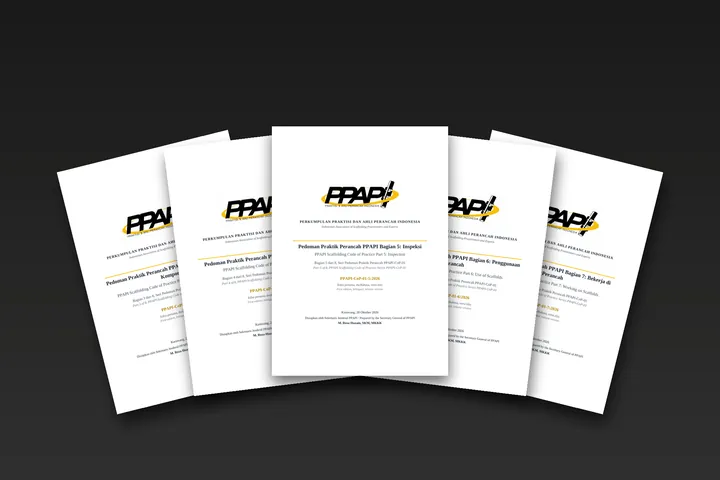
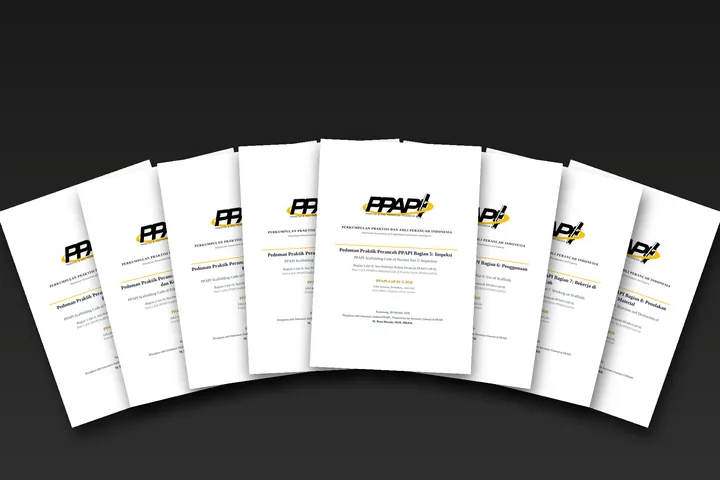
Artikel CoP mencakup seri lengkap Bagian 1 sampai 8
Artikel promosi Pedoman Praktik Perancah PPAPI-CoP-01:2026 kini membahas
kedelapan bagian (183 halaman) dengan rujukan per bagian, dan gambar
sampulnya memuat kedelapan sampul.

Claude-Session: https://claude.ai/code/session_01RHE9XNYjmYozyxCiG3JqDp

Changed region(s): [[0.0, 0.25, 1.0, 0.9062]]

diff --git a/site/assets/data/berita.js b/site/assets/data/berita.js
@@ -49,42 +49,48 @@ window.PPAPI_DATA = window.PPAPI_DATA || {};
 PPAPI_DATA.berita = [
   {
     id: 'pedoman-praktik-perancah-ppapi-cop-01-2026',
-    judul: 'Pedoman Praktik Perancah PPAPI-CoP-01:2026: Acuan Kerja dari Gudang Material sampai Bekerja di Ketinggian',
+    judul: 'Pedoman Praktik Perancah PPAPI-CoP-01:2026: Delapan Bagian Acuan Kerja Perancah dari Perencanaan sampai Pemusnahan Material',
     kategori: 'Organisasi',
     tanggal: '2026-11-02',
-    ringkasan: 'PPAPI menerbitkan Pedoman Praktik Perancah Bagian 3 sampai 7: material, instalasi, inspeksi, penggunaan, dan bekerja di atas perancah. Dwibahasa, 110 halaman, tersedia di Toko PPAPI.',
+    ringkasan: 'PPAPI menerbitkan seri lengkap Pedoman Praktik Perancah, Bagian 1 sampai 8: dari prinsip, K3, material, instalasi, dan inspeksi sampai pemusnahan material. Dwibahasa, 183 halaman.',
     isi: [
       '## Latar Belakang',
       'Perancah adalah struktur sementara, tetapi taruhannya tidak pernah sementara. Di atas perancah, pekerja memasang dinding, mengecat fasad, merawat pipa pabrik, dan membongkar bekisting. Jika satu komponen gagal atau satu pengikat dilepas tanpa izin, akibatnya bisa berupa pekerja jatuh atau struktur runtuh. Karena itu, Undang-Undang Nomor 1 Tahun 1970 tentang Keselamatan Kerja mewajibkan syarat keselamatan dipenuhi di setiap tempat kerja, termasuk proyek yang memakai perancah (Republik Indonesia, 1970).',
-      'Peraturan pelaksanaannya juga jelas. Permenaker Nomor 9 Tahun 2016 menetapkan lima persyaratan K3 bekerja pada ketinggian, yaitu perencanaan, prosedur kerja, teknik bekerja aman, alat pelindung diri beserta angkur, dan tenaga kerja. Pasal 15 mewajibkan pengusaha atau pengurus memastikan pekerjaan yang memakai perancah memenuhi persyaratan K3 (Kementerian Ketenagakerjaan, 2016). Standar kompetensinya pun sudah tersedia melalui SKKNI Bidang Operasi Scaffolding (Kementerian Ketenagakerjaan, 2022). Yang sering belum tersedia adalah pedoman teknis berbahasa Indonesia yang menjembatani aturan tersebut dengan pekerjaan sehari-hari di lapangan.',
-      'Untuk mengisi kekosongan itu, PPAPI menyusun Pedoman Praktik Perancah PPAPI (*PPAPI Scaffolding Code of Practice*) seri PPAPI-CoP-01. Seri ini terdiri atas delapan bagian, disusun dalam dua bahasa secara berdampingan, dan versi rilisnya disahkan Ketua Umum PPAPI pada 28 Oktober 2026 (Perkumpulan Praktisi dan Ahli Perancah Indonesia, 2026a). Lima bagian, yaitu Bagian 3 sampai Bagian 7, kini dapat diperoleh melalui Toko PPAPI.',
+      'Permenaker Nomor 9 Tahun 2016 menetapkan lima persyaratan K3 bekerja pada ketinggian, yaitu perencanaan, prosedur kerja, teknik bekerja aman, alat pelindung diri beserta angkur, dan tenaga kerja. Pasal 15 mewajibkan pengusaha atau pengurus memastikan pekerjaan yang memakai perancah memenuhi persyaratan K3 (Kementerian Ketenagakerjaan, 2016). Standar kompetensinya tersedia melalui SKKNI Bidang Operasi Scaffolding (Kementerian Ketenagakerjaan, 2022). Namun, peraturan menetapkan kewajiban umum agar perancah kuat, stabil, dan diperiksa sebelum digunakan, tanpa merinci dimensi konfigurasi, pengikatan, kriteria penolakan material, dan teknik pemeriksaan (Perkumpulan Praktisi dan Ahli Perancah Indonesia, 2026a).',
+      'Untuk mengisi kekosongan itu, PPAPI menyusun Pedoman Praktik Perancah PPAPI (*PPAPI Scaffolding Code of Practice*) seri PPAPI-CoP-01. Berdasarkan keputusan Pengurus PPAPI, pedoman ini diterbitkan sebagai seri delapan bagian agar setiap bagian dapat digunakan langsung oleh pihak yang memerlukannya (Perkumpulan Praktisi dan Ahli Perancah Indonesia, 2026a). Seluruh bagian disusun dalam dua bahasa secara berdampingan, versi rilisnya disahkan Ketua Umum PPAPI pada 28 Oktober 2026, dan kini dapat diperoleh melalui Toko PPAPI.',
       '## Masalah yang Sering Terjadi',
-      'Masalah pertama berawal dari gudang. Komponen perancah yang beredar di Indonesia berasal dari berbagai keluarga standar dan pabrikan dengan mutu yang beragam, dan sebagian di antaranya masuk ke lokasi kerja tanpa pemeriksaan. Padahal, kekuatan perancah ditentukan oleh komponen terlemahnya (Perkumpulan Praktisi dan Ahli Perancah Indonesia, 2026a). Pipa yang dindingnya menipis, klem yang ulirnya aus, atau papan yang retak tidak selalu terlihat sampai ada yang gagal.',
-      'Masalah kedua muncul saat pemasangan. Kondisi lapangan tidak selalu sama dengan gambar. Tanah lebih lunak dari perkiraan, titik pengikat terhalang, atau bentang harus diubah. Keputusan yang aman dalam keadaan seperti itu hanya dapat diambil oleh personel yang memahami prinsip yang terpengaruh oleh penyimpangan tersebut (Perkumpulan Praktisi dan Ahli Perancah Indonesia, 2026b).',
-      'Masalah ketiga terjadi setelah perancah diserahkan. Kelayakan perancah dapat hilang karena tindakan penggunanya, misalnya memindahkan papan, melepas pengikat, menumpuk material pada satu bay, atau memasang penutup pada pagar. Sebagian besar pengguna perancah bukan scaffolder dan tidak mengetahui fungsi setiap komponen (Perkumpulan Praktisi dan Ahli Perancah Indonesia, 2026d). Ditambah lagi, perlindungan kolektif belum lengkap pada saat pemasangan dan pembongkaran, saat pekerja menjangkau ke luar pagar, dan saat berpindah antara perancah dan struktur (Perkumpulan Praktisi dan Ahli Perancah Indonesia, 2026e). Pada saat-saat itulah risiko jatuh paling tinggi.',
+      'Selama ini, rincian teknis yang tidak diatur peraturan diisi oleh standar asing yang ditafsirkan berbeda oleh setiap perusahaan. Akibatnya, penilaian kelayakan perancah tidak seragam antar lokasi kerja (Perkumpulan Praktisi dan Ahli Perancah Indonesia, 2026a). Perancah yang dinyatakan layak di satu proyek dapat dinilai tidak layak di proyek lain.',
+      'Masalah berikutnya berawal dari gudang. Komponen yang beredar di Indonesia berasal dari berbagai keluarga standar dan pabrikan dengan mutu beragam, dan sebagian masuk ke lokasi kerja tanpa pemeriksaan, padahal kekuatan perancah ditentukan oleh komponen terlemahnya (Perkumpulan Praktisi dan Ahli Perancah Indonesia, 2026c). Komponen yang sudah ditolak pun dapat kembali dipakai di lokasi lain bila tidak dimusnahkan, misalnya pipa bengkok yang diluruskan atau klem rusak yang diperdagangkan kembali (Perkumpulan Praktisi dan Ahli Perancah Indonesia, 2026h).',
+      'Di lapangan, sebagian besar kecelakaan perancah berakar pada hal yang seharusnya selesai sebelum pekerjaan dimulai, yaitu kompetensi dan kelaikan personel, penilaian bahaya dalam izin kerja, kesesuaian alat pelindung diri, dan komunikasi antarregu (Perkumpulan Praktisi dan Ahli Perancah Indonesia, 2026b). Setelah perancah diserahkan, kelayakannya juga dapat hilang karena pengguna memindahkan papan, melepas pengikat, atau menumpuk material pada satu bay (Perkumpulan Praktisi dan Ahli Perancah Indonesia, 2026f). Sementara itu, perlindungan kolektif belum lengkap selama pemasangan dan pembongkaran, saat risiko jatuh paling tinggi (Perkumpulan Praktisi dan Ahli Perancah Indonesia, 2026g).',
       '## Penjelasan dan Penyelesaian Berdasarkan Referensi',
-      'Kelima bagian CoP disusun mengikuti siklus hidup perancah, dari material sampai pemakaian. Setiap bagian memuat ruang lingkup, acuan normatif, ketentuan, lampiran praktis, dan daftar acuan.',
-      '- Bagian 3, Material dan Komponen (20 halaman), berlaku untuk komponen milik sendiri maupun sewaan, baru maupun bekas pakai. Bagian ini mengatur standar material yang dapat diterima di Indonesia, prinsip pengadaan, isi minimum sertifikat kesesuaian, pemeriksaan material di lapangan, penyimpanan, perawatan, serta kriteria penolakan komponen (Perkumpulan Praktisi dan Ahli Perancah Indonesia, 2026a). Salah satu acuannya adalah SNI 8987:2021 tentang pipa baja untuk perancah (Badan Standardisasi Nasional, 2021).',
-      '- Bagian 4, Instalasi (27 halaman), menurunkan seluruh persyaratan teknis dari tiga prinsip struktural, yaitu kekuatan, kestabilan, dan kekakuan, agar dasar setiap persyaratan jarak, pengaku, dan pengikat dapat dipahami. Bagian ini mencakup perencanaan, pemasangan perancah pipa dan klem, frame, modular, dan jenis khusus, modifikasi, pembongkaran, serta tabel konfigurasi standar (Perkumpulan Praktisi dan Ahli Perancah Indonesia, 2026b).',
-      '- Bagian 5, Inspeksi (25 halaman), mengatur pemeriksaan sebelum pendirian, selama pemasangan, pertama kali sebelum digunakan, berkala, setelah kejadian khusus, dan sebelum pembongkaran. Sertifikat serah terima wajib memuat identitas perancah, kelas beban, batasan penggunaan, hasil uji tarik angkur bila dipakai, serta tanggal dan hasil pemeriksaan pertama. Lampirannya memuat daftar periksa inspeksi dan isi minimum tag (Perkumpulan Praktisi dan Ahli Perancah Indonesia, 2026c).',
-      '- Bagian 6, Penggunaan Perancah (16 halaman), berlaku bagi setiap orang yang memakai perancah untuk bekerja, lewat, atau meletakkan material, termasuk pekerja dari disiplin lain dan subkontraktor. Bagian ini disusun agar dapat dipakai sebagai bahan induksi dan dilengkapi ringkasan untuk poster lapangan (Perkumpulan Praktisi dan Ahli Perancah Indonesia, 2026d).',
-      '- Bagian 7, Bekerja di Atas Perancah (22 halaman), mengatur kompetensi, alat pelindung jatuh perorangan, titik angkur yang boleh dan dilarang, faktor jatuh dan ruang bebas jatuh, teknik bergerak, pencegahan benda jatuh, dan penyelamatan. Prinsipnya diadopsi dari praktik kerja pada ketinggian yang dikembangkan Asosiasi Rope Access Indonesia (ARAI), yaitu keterikatan terus-menerus, pengaman ganda, penilaian faktor jatuh, dan kesiapan penyelamatan (Perkumpulan Praktisi dan Ahli Perancah Indonesia, 2026e).',
-      'Pembagian ini juga memperjelas tanggung jawab. Setelah serah terima, tanggung jawab pemeriksaan berkala, pencegahan modifikasi tanpa izin, dan pencegahan beban lebih beralih kepada pemberi kerja atau pengguna, sedangkan kontraktor perancah tetap bertanggung jawab atas kesesuaian pemasangan dengan gambar dan pedoman (Perkumpulan Praktisi dan Ahli Perancah Indonesia, 2026c).',
+      'Kedelapan bagian CoP disusun mengikuti siklus hidup perancah. Setiap bagian memuat ruang lingkup, acuan normatif, ketentuan, lampiran praktis, dan daftar acuan.',
+      '- Bagian 1, Prinsip Perancah (32 halaman), menjadi landasan bersama: istilah, prinsip dasar, hierarki acuan, dan klasifikasi yang dipakai Bagian 2 sampai Bagian 8. Bagian ini juga menegaskan bahwa ketentuan peraturan perundang-undangan mengungguli pedoman bila terdapat perbedaan (Perkumpulan Praktisi dan Ahli Perancah Indonesia, 2026a).',
+      '- Bagian 2, Keselamatan dan Kesehatan Kerja (23 halaman), mengatur persyaratan administrasi, kompetensi dan kewenangan, kelaikan kesehatan, manajemen kelelahan, alat pelindung diri, komunikasi, pengendalian area, tanggap darurat, dan pelaporan kejadian (Perkumpulan Praktisi dan Ahli Perancah Indonesia, 2026b).',
+      '- Bagian 3, Material dan Komponen (20 halaman), berlaku untuk komponen milik sendiri maupun sewaan, baru maupun bekas pakai, dari pengadaan, sertifikat kesesuaian, pemeriksaan di lapangan, sampai penyimpanan dan perawatan (Perkumpulan Praktisi dan Ahli Perancah Indonesia, 2026c). Salah satu acuannya adalah SNI 8987:2021 tentang pipa baja untuk perancah (Badan Standardisasi Nasional, 2021).',
+      '- Bagian 4, Instalasi (27 halaman), menurunkan persyaratan jarak, pengaku, dan pengikat dari tiga prinsip struktural, yaitu kekuatan, kestabilan, dan kekakuan, untuk perancah pipa dan klem, frame, modular, dan jenis khusus (Perkumpulan Praktisi dan Ahli Perancah Indonesia, 2026d).',
+      '- Bagian 5, Inspeksi (25 halaman), mengatur pemeriksaan sejak sebelum pendirian sampai sebelum pembongkaran, isi sertifikat serah terima, sistem tagging, serta daftar periksa inspeksi (Perkumpulan Praktisi dan Ahli Perancah Indonesia, 2026e).',
+      '- Bagian 6, Penggunaan Perancah (16 halaman), ditujukan bagi setiap orang yang memakai perancah, termasuk pekerja disiplin lain dan subkontraktor, dan dilengkapi ringkasan untuk poster lapangan (Perkumpulan Praktisi dan Ahli Perancah Indonesia, 2026f).',
+      '- Bagian 7, Bekerja di Atas Perancah (22 halaman), mengatur alat pelindung jatuh, titik angkur, faktor jatuh dan ruang bebas jatuh, pencegahan benda jatuh, dan penyelamatan, dengan prinsip yang diadopsi dari praktik Asosiasi Rope Access Indonesia (ARAI) (Perkumpulan Praktisi dan Ahli Perancah Indonesia, 2026g).',
+      '- Bagian 8, Penolakan dan Pemusnahan Material (18 halaman), menetapkan alur penolakan, karantina, dan pemusnahan agar komponen yang tidak memenuhi standar keluar dari rantai pasok secara permanen, dilengkapi format berita acara dan register pemusnahan (Perkumpulan Praktisi dan Ahli Perancah Indonesia, 2026h).',
+      'Pembagian ini juga memperjelas tanggung jawab. Setelah serah terima, tanggung jawab pemeriksaan berkala dan pencegahan beban lebih beralih kepada pemberi kerja atau pengguna, sedangkan kontraktor perancah tetap bertanggung jawab atas kesesuaian pemasangan dengan gambar dan pedoman (Perkumpulan Praktisi dan Ahli Perancah Indonesia, 2026e).',
       '## Solusi dan Kontribusi PPAPI',
-      'Bagi perusahaan, CoP ini dapat menjadi rujukan saat menyusun prosedur kerja, rencana pemasangan, dan program inspeksi. Bagi praktisi, CoP ini membantu menjelaskan alasan teknis di balik setiap ketentuan, sehingga keputusan di lapangan tidak lagi bergantung pada kebiasaan. Bagi pengawas dan petugas K3, daftar periksa pada Bagian 5 dan ringkasan poster pada Bagian 6 dapat langsung dipakai.',
-      'Paket Bagian 3 sampai Bagian 7 berjumlah 110 halaman dan digabung dalam satu berkas PDF berukuran A4 dengan penanda untuk setiap bagian. Soft file tersedia seharga Rp150.000, sedangkan versi cetak A4 seharga Rp200.000 ditambah ongkos kirim. Soft file dapat diunduh dari halaman Pesanan Saya setelah pembayaran dikonfirmasi sekretariat. Setiap halaman dibubuhi tanda air nama, email, dan nomor pesanan pembeli, lalu berkas dikunci dengan kata sandi berupa email pembeli. Berkas dapat dibaca dan dicetak, tetapi tidak dapat diubah atau disalin.',
-      'CoP ini akan ditinjau paling lambat tiga tahun sejak pengesahan, atau lebih awal bila regulasi atau SKKNI berubah (Perkumpulan Praktisi dan Ahli Perancah Indonesia, 2026a). Masukan dari anggota dan pengguna dapat disampaikan melalui halaman Umpan Balik agar edisi berikutnya makin sesuai dengan kebutuhan lapangan.',
+      'Bagi perusahaan, CoP ini dapat menjadi rujukan saat menyusun prosedur kerja, rencana pemasangan, dan program inspeksi. Bagi praktisi, CoP ini menjelaskan alasan teknis di balik setiap ketentuan. Bagi pengawas dan petugas K3, daftar periksa dan ringkasan poster dapat langsung dipakai.',
+      'Seri lengkap berjumlah 183 halaman dan digabung dalam satu berkas PDF A4 dengan penanda untuk setiap bagian. Soft file tersedia seharga Rp150.000, sedangkan versi cetak A4 seharga Rp200.000 ditambah ongkos kirim. Soft file dapat diunduh dari halaman Pesanan Saya setelah pembayaran dikonfirmasi sekretariat. Setiap halaman dibubuhi tanda air nama, email, dan nomor pesanan pembeli, lalu berkas dikunci dengan kata sandi berupa email pembeli: dapat dibaca dan dicetak, tetapi tidak dapat diubah atau disalin.',
+      'CoP ini akan ditinjau paling lambat tiga tahun sejak pengesahan, atau lebih awal bila regulasi atau SKKNI berubah (Perkumpulan Praktisi dan Ahli Perancah Indonesia, 2026c). Masukan dapat disampaikan melalui halaman Umpan Balik.',
       '## Penutup',
-      'Perancah yang aman tidak lahir dari satu tindakan, tetapi dari rangkaian keputusan yang benar: komponen yang diperiksa, pemasangan yang dipahami, inspeksi yang terdokumentasi, pengguna yang tahu batasnya, dan pekerja yang selalu terlindung saat bekerja di ketinggian. Pedoman Praktik Perancah PPAPI menyatukan rangkaian itu dalam satu acuan berbahasa Indonesia dan Inggris. Silakan dapatkan paketnya di Toko PPAPI dan jadikan acuan bersama di proyek Anda.',
+      'Perancah yang aman lahir dari rangkaian keputusan yang benar: personel yang siap, komponen yang diperiksa, pemasangan yang dipahami, inspeksi yang terdokumentasi, pengguna yang tahu batasnya, pekerja yang terlindung di ketinggian, dan komponen rusak yang benar-benar dimusnahkan. Pedoman Praktik Perancah PPAPI menyatukan rangkaian itu dalam satu acuan berbahasa Indonesia dan Inggris. Silakan dapatkan seri lengkapnya di Toko PPAPI dan jadikan acuan bersama di proyek Anda.',
       '## Daftar Pustaka',
       'Badan Standardisasi Nasional. (2021). *SNI 8987:2021 Pipa baja untuk perancah* (SK Kepala BSN Nomor 484/KEP/BSN/11/2021). Pesta BSN. https://pesta.bsn.go.id/produk/detail/13541-sni89872021',
       'Kementerian Ketenagakerjaan. (2016). *Peraturan Menteri Ketenagakerjaan Nomor 9 Tahun 2016 tentang Keselamatan dan Kesehatan Kerja dalam Pekerjaan pada Ketinggian* (Berita Negara Republik Indonesia Tahun 2016 Nomor 386). https://peraturan.go.id/files/bn386-2016.pdf',
       'Kementerian Ketenagakerjaan. (2022). *Keputusan Menteri Ketenagakerjaan Nomor 46 Tahun 2022 tentang Penetapan Standar Kompetensi Kerja Nasional Indonesia Kategori Konstruksi Golongan Pokok Konstruksi Khusus Bidang Operasi Scaffolding*. JDIH Kemnaker. https://jdih.kemnaker.go.id/peraturan/detail/2235/keputusan-menteri-ketenagakerjaan-nomor-46-tahun-2022',
-      'Perkumpulan Praktisi dan Ahli Perancah Indonesia. (2026a). *Pedoman praktik perancah PPAPI Bagian 3: Material dan komponen* (PPAPI-CoP-01-3:2026; Edisi pertama, dwibahasa). PPAPI.',
-      'Perkumpulan Praktisi dan Ahli Perancah Indonesia. (2026b). *Pedoman praktik perancah PPAPI Bagian 4: Instalasi* (PPAPI-CoP-01-4:2026; Edisi pertama, dwibahasa). PPAPI.',
-      'Perkumpulan Praktisi dan Ahli Perancah Indonesia. (2026c). *Pedoman praktik perancah PPAPI Bagian 5: Inspeksi* (PPAPI-CoP-01-5:2026; Edisi pertama, dwibahasa). PPAPI.',
-      'Perkumpulan Praktisi dan Ahli Perancah Indonesia. (2026d). *Pedoman praktik perancah PPAPI Bagian 6: Penggunaan perancah* (PPAPI-CoP-01-6:2026; Edisi pertama, dwibahasa). PPAPI.',
-      'Perkumpulan Praktisi dan Ahli Perancah Indonesia. (2026e). *Pedoman praktik perancah PPAPI Bagian 7: Bekerja di atas perancah* (PPAPI-CoP-01-7:2026; Edisi pertama, dwibahasa). PPAPI.',
+      'Perkumpulan Praktisi dan Ahli Perancah Indonesia. (2026a). *Pedoman praktik perancah PPAPI Bagian 1: Prinsip perancah* (PPAPI-CoP-01-1:2026; Edisi pertama, dwibahasa). PPAPI.',
+      'Perkumpulan Praktisi dan Ahli Perancah Indonesia. (2026b). *Pedoman praktik perancah PPAPI Bagian 2: Keselamatan dan kesehatan kerja* (PPAPI-CoP-01-2:2026; Edisi pertama, dwibahasa). PPAPI.',
+      'Perkumpulan Praktisi dan Ahli Perancah Indonesia. (2026c). *Pedoman praktik perancah PPAPI Bagian 3: Material dan komponen* (PPAPI-CoP-01-3:2026; Edisi pertama, dwibahasa). PPAPI.',
+      'Perkumpulan Praktisi dan Ahli Perancah Indonesia. (2026d). *Pedoman praktik perancah PPAPI Bagian 4: Instalasi* (PPAPI-CoP-01-4:2026; Edisi pertama, dwibahasa). PPAPI.',
+      'Perkumpulan Praktisi dan Ahli Perancah Indonesia. (2026e). *Pedoman praktik perancah PPAPI Bagian 5: Inspeksi* (PPAPI-CoP-01-5:2026; Edisi pertama, dwibahasa). PPAPI.',
+      'Perkumpulan Praktisi dan Ahli Perancah Indonesia. (2026f). *Pedoman praktik perancah PPAPI Bagian 6: Penggunaan perancah* (PPAPI-CoP-01-6:2026; Edisi pertama, dwibahasa). PPAPI.',
+      'Perkumpulan Praktisi dan Ahli Perancah Indonesia. (2026g). *Pedoman praktik perancah PPAPI Bagian 7: Bekerja di atas perancah* (PPAPI-CoP-01-7:2026; Edisi pertama, dwibahasa). PPAPI.',
+      'Perkumpulan Praktisi dan Ahli Perancah Indonesia. (2026h). *Pedoman praktik perancah PPAPI Bagian 8: Penolakan dan pemusnahan material* (PPAPI-CoP-01-8:2026; Edisi pertama, dwibahasa). PPAPI.',
       'Republik Indonesia. (1970). *Undang-Undang Nomor 1 Tahun 1970 tentang Keselamatan Kerja*. Database Peraturan JDIH BPK. https://peraturan.bpk.go.id/Details/47614',
     ],
     gambar: 'assets/img/cop-01-2026.webp',

diff --git a/CLAUDE.md b/CLAUDE.md
@@ -56,12 +56,12 @@ Repositori ini satu-satunya sumber kebenaran. Baca juga `README.md` (alur kerja)
   asing) membuat SEMUA update ditolak (anggota & admin). `store.admin.memberIssues(uid)` / `repairMember(uid)` + kotak peringatan
   di laci detail anggota; `ensureMember` tidak lagi gagal memuat bila sinkronisasi kontak ditolak. Toko: transaksi admin yang
   ditolak menjalankan `diagnoseOrderWrite` (uji tulis tanpa efek) agar pesan galat menyebut langkah yang ditolak.
-- CoP dijual (02-11-2026, permintaan klien): hanya **Bagian 3–7** versi rilis bertanda tangan (PDF dari klien, 110 hlm., digabung +
-  bookmark) menggantikan "Seri Lengkap 8 Bagian" pada produk id `ppapi-cop-01-2026-seri-lengkap` (id tetap agar impor memperbarui).
-  Paket `produk-cop-ppapi-01-2026-bagian-3-7.json` diserahkan ke klien (berisi PDF bertanda tangan: **jangan** di-commit). Harga tetap
-  Rp150.000 / cetak Rp200.000, berat 400 g (asumsi, konfirmasi klien). Artikel promosi `pedoman-praktik-perancah-ppapi-cop-01-2026`
-  (sorotan; gambar `assets/img/cop-01-2026.webp`) + kolom opsional `ajakan: {label, href}` di berita.js (tombol sebelum Daftar Pustaka,
-  hanya tautan internal `halaman.html?kueri`). Uji berita-agenda-flow/contract-v2 kini menghitung 10 artikel bawaan.
+- CoP dijual (03-11-2026, permintaan klien): **Seri Lengkap Bagian 1–8** versi rilis bertanda tangan (8 PDF dari klien 02/03-11-2026,
+  183 hlm., digabung + bookmark) pada produk id `ppapi-cop-01-2026-seri-lengkap` (id tetap agar impor memperbarui; menggantikan paket
+  sementara Bagian 3–7). Paket `produk-cop-ppapi-01-2026-seri-lengkap.json` diserahkan ke klien (berisi PDF bertanda tangan: **jangan**
+  di-commit). Harga Rp150.000 / cetak Rp200.000, berat 600 g. Artikel promosi `pedoman-praktik-perancah-ppapi-cop-01-2026` (sorotan;
+  gambar `assets/img/cop-01-2026.webp`, sitasi Bagian 1–8 = 2026a–h) + kolom opsional `ajakan: {label, href}` di berita.js (tombol
+  sebelum Daftar Pustaka, hanya tautan internal `halaman.html?kueri`). Uji berita-agenda-flow/contract-v2 menghitung 10 artikel bawaan.
 - Tampilan (02-11-2026): tabel di dalam pop-up (modal/laci) memakai container query `tblwrap` (main.css): bertumpuk menjadi kartu
   bila wadah < 720 px, sel terlipat pada wadah lebar (tidak ada lagi tombol "Tandai Hadir" terpotong). Tab (`.tabs__list`), menu
   Konsol Admin di ponsel/tablet, chip filter Pustaka/Instruktur, dan indeks Profil kini terlipat (bukan strip geser).
